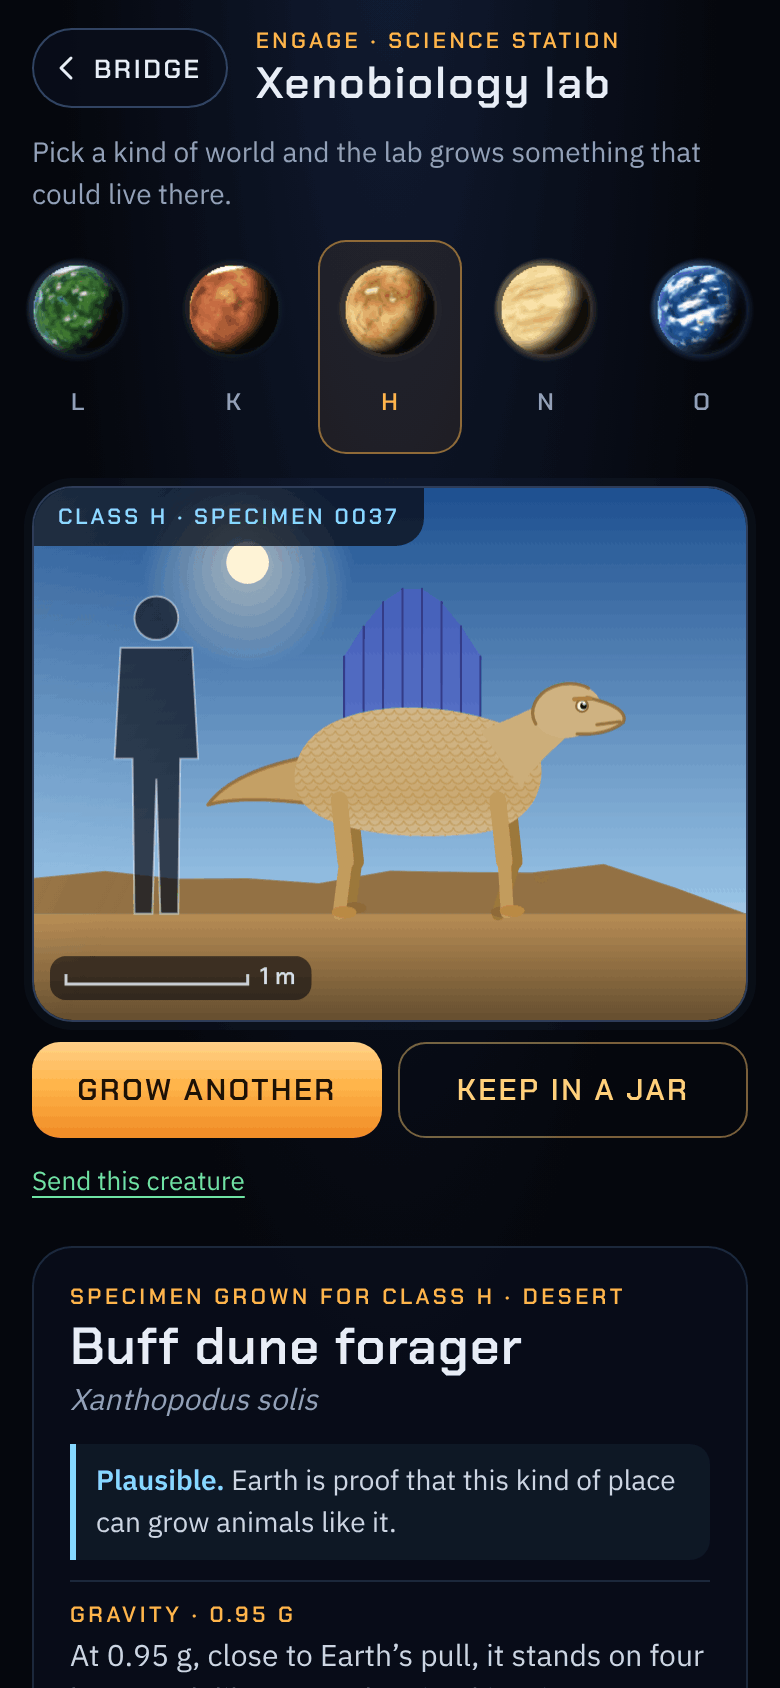
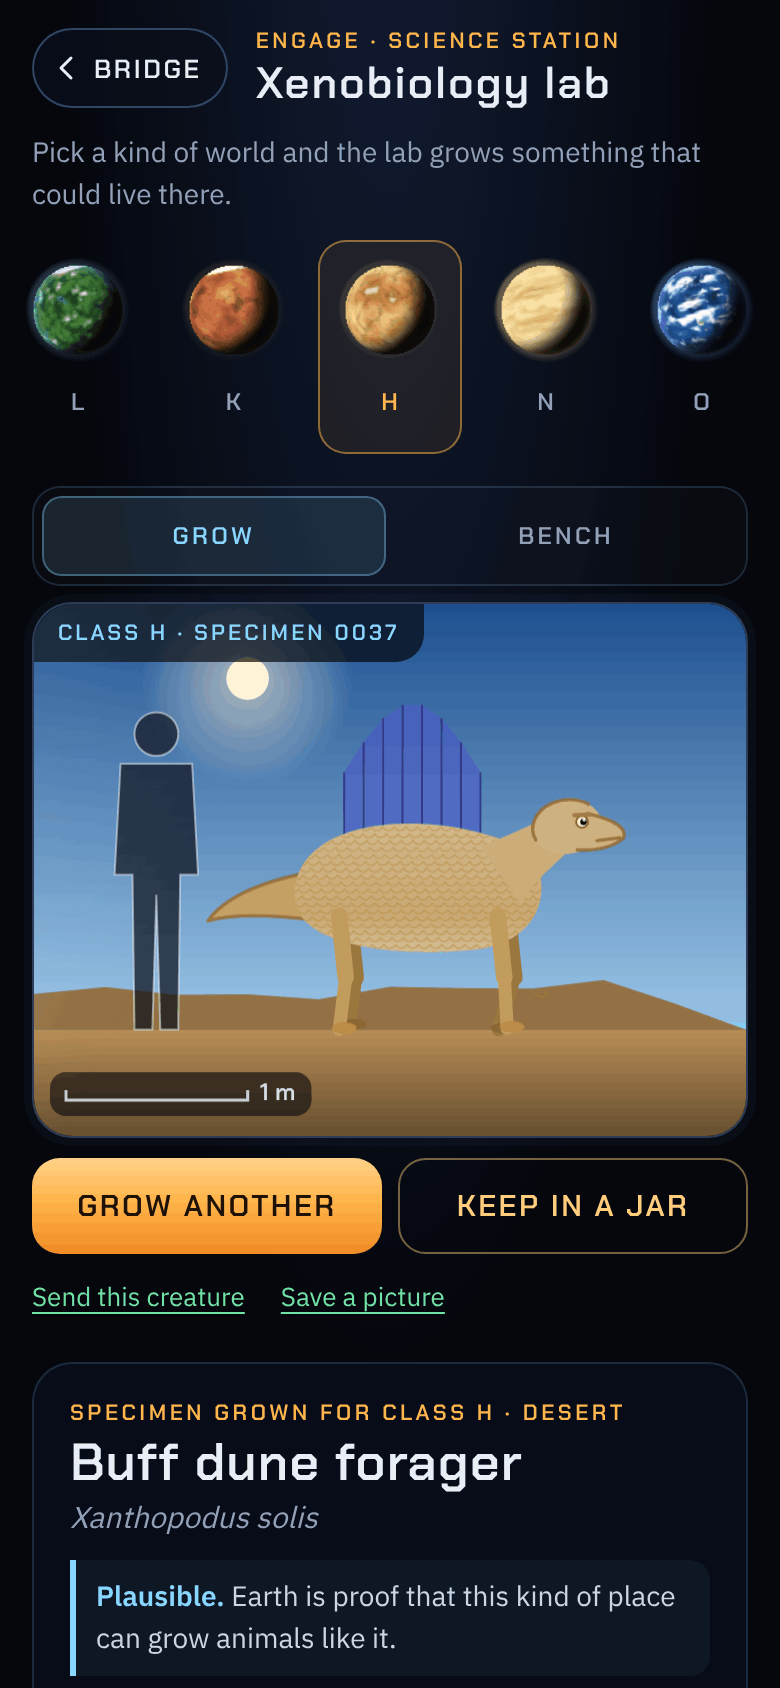
Xenobiology lab: the README's picture shows the Grow and Bench tabs
The lab's phone picture was taken before the bench: it now has the Grow and Bench tabs over the tank and Save a
picture beside Send this creature, redrawn with tools/screenshots.mjs xeno, and its description says so. The link
preview draws three tanks only, which haven't changed, so it is left as it was.

Claude-Session: https://claude.ai/code/session_01PQbLNVDaib7dGBXFANm7XP

diff --git a/README.md b/README.md
@@ -19,7 +19,7 @@
   &nbsp;
   <img src="docs/phone-away.png" alt="The away team on TRAPPIST-1 e: its orange sun low over a dark horizon, two sister planets beside it and a third higher up, and the lab's pink, long-legged creature for the planet standing in front" width="250">
   &nbsp;
-  <img src="docs/phone-xeno.png" alt="The xenobiology lab grown for Class H: a tan, four-legged, sail-backed dune forager under a bright sun, next to a person for scale, with its field notes below" width="250">
+  <img src="docs/phone-xeno.png" alt="The xenobiology lab grown for Class H: the Grow and Bench tabs over the tank, a tan, four-legged, sail-backed dune forager under a bright sun, next to a person for scale, with its field notes below" width="250">
   &nbsp;
   <img src="docs/phone-maru.png" alt="The Kobayashi Maru on the tactical display: your ship fires phasers at one of five Klingon cruisers circling the disabled freighter, with 150 people rescued and the hull at 51%" width="250">
   &nbsp;
